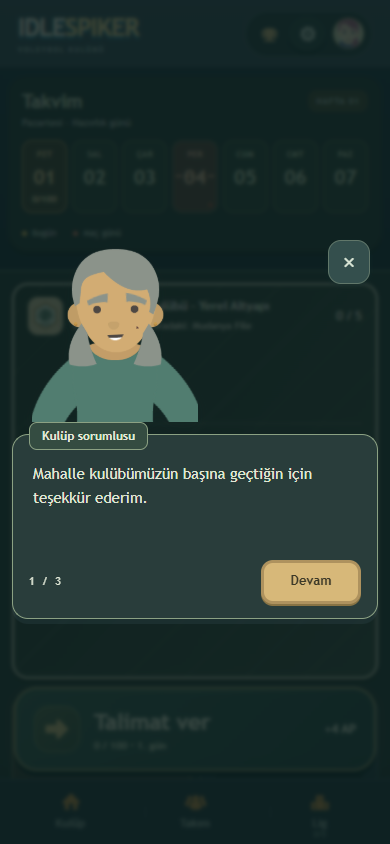
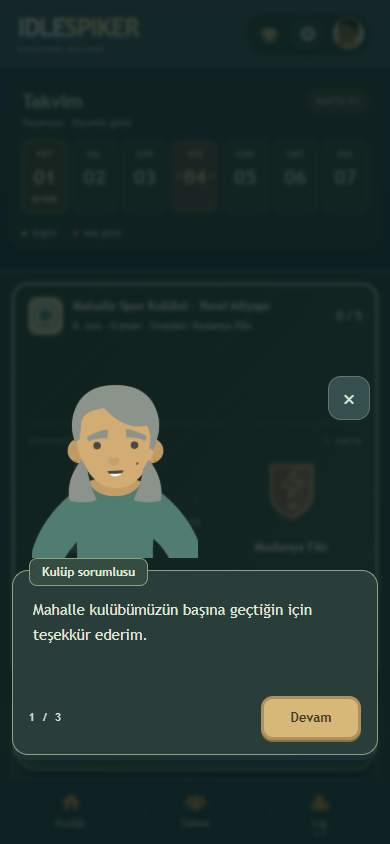
Anchor the opening conversation near the bottom of the viewport

diff --git a/index.html b/index.html
@@ -1,5 +1,5 @@
 <!doctype html>
-<html lang="tr"><head><script src="cheat-defaults.js?v=3f3b429b351f"></script><script src="flow-preview-environment.js?v=bd84173813bd"></script><meta charset="utf-8"><meta name="viewport" content="width=device-width,initial-scale=1,viewport-fit=cover"><meta name="theme-color" content="#72c8e5"><link rel="manifest" href="manifest.webmanifest"><link rel="apple-touch-icon" href="assets/app/apple-touch-icon.png"><meta name="apple-mobile-web-app-capable" content="yes"><meta name="apple-mobile-web-app-title" content="Idle Spiker"><meta name="apple-mobile-web-app-status-bar-style" content="default"><link rel="stylesheet" href="app-display.css?v=9be33492b021"><script src="app-display.js?v=77358ca90155" defer></script><title>Idle Spiker · Kulüp Merkezi</title><link rel="stylesheet" href="menu.css?v=c016fb44e844"><link rel="stylesheet" href="menu-game.css?v=7f40c8954076"><link rel="stylesheet" href="team.css?v=bcffe6b92c1a"><link rel="stylesheet" href="league-season.css?v=6a6a164bc92c"><style>#bootScreen{position:fixed;inset:0;max-width:480px;margin-inline:auto;z-index:10000;display:grid;place-content:center;justify-items:center;gap:8px;background:#fff3d7;color:#547c83;font-family:system-ui,sans-serif}#bootScreen strong{order:0;font-size:30px;letter-spacing:2px}#bootScreen strong span{color:#bb995b}#bootScreen p{order:1;font-size:12px;margin:0;color:#819383}#bootPepper{order:2;margin-top:12px;visibility:visible;width:260px;height:212px;border:0;background:transparent;pointer-events:none}#bootScreen img{width:48px;height:48px;animation:boot-bounce 1.2s ease-in-out infinite}@keyframes boot-bounce{50%{transform:translateY(-12px) rotate(18deg)}}@media(prefers-reduced-motion:reduce){#bootScreen img{animation:none}}</style><link rel="stylesheet" href="club-journey.css?v=a8162af5edc1"><link rel="stylesheet" href="bal-stage.css?v=03e79f9db703"><script src="season-clock.js?v=c90a74233800"></script><script src="bal-recovery.js?v=003056f070b8"></script><script src="weekly-season-migration.js?v=c91052e58aec"></script><script src="number-ui.js?v=a24b5930e991"></script><link rel="stylesheet" href="theme.css?v=13ff5dca84d4"><script src="theme.js?v=3046f3da7b5c"></script><link rel="stylesheet" href="achievements.css?v=2a8661c0d2be"><link rel="stylesheet" href="division-three.css?v=ef35af114b54"><link rel="stylesheet" href="social-screen.css?v=d9fcd5f947b1"><link rel="stylesheet" href="league-players.css?v=86e88a43a3b5"><link rel="stylesheet" href="language.css?v=b027c2a552b8"><script src="language-data.js?v=3d3af7f60753"></script><script src="language.js?v=6352cc5dd035"></script><link rel="stylesheet" href="player-skills.css?v=da608137e96c"><link rel="stylesheet" href="styles/ui/player-club-card.css?v=f5e5d3b711c5"><link rel="stylesheet" href="styles/ui/transfer-center.css?v=7bcc2f214fba"><script src="scripts/ui/dialog-navigation.js?v=0988251be4a1" defer></script><link rel="stylesheet" href="social-journey.css?v=381c58c2dc22"><link rel="stylesheet" href="next-match-card.css?v=d739901623ff"><link rel="stylesheet" href="social-follower-counter.css?v=038892551d63"><link rel="stylesheet" href="player-profile.css?v=9c3d709eac72"><link rel="stylesheet" href="ui-icons.css?v=b5ce6adfd485"><link rel="stylesheet" href="flow-effects.css?v=f82bf838ab8c"><link rel="stylesheet" href="board-doodles.css?v=85c5f17bdbe1"><link rel="stylesheet" href="board-presentation.css?v=3ae360fc348f"><link rel="stylesheet" href="progression-visuals.css?v=abd1b1d35d38"><link rel="stylesheet" href="flow-lanes.css?v=d7f1e62ee16b"><link rel="stylesheet" href="flow-media-theme.css?v=a959430cbe25"><link rel="stylesheet" href="ui-components.css?v=9f3bbe660198"><link rel="stylesheet" href="academy.css?v=1f7eb14eaf73"><link rel="stylesheet" href="academy-career.css?v=c24b7b8e9637"><link rel="stylesheet" href="legendary-unlock-preview.css?v=247b90f08604"><script src="point-music-rules.js?v=8ce930b25ffd"></script></head>
+<html lang="tr"><head><script src="cheat-defaults.js?v=3f3b429b351f"></script><script src="flow-preview-environment.js?v=bd84173813bd"></script><meta charset="utf-8"><meta name="viewport" content="width=device-width,initial-scale=1,viewport-fit=cover"><meta name="theme-color" content="#72c8e5"><link rel="manifest" href="manifest.webmanifest"><link rel="apple-touch-icon" href="assets/app/apple-touch-icon.png"><meta name="apple-mobile-web-app-capable" content="yes"><meta name="apple-mobile-web-app-title" content="Idle Spiker"><meta name="apple-mobile-web-app-status-bar-style" content="default"><link rel="stylesheet" href="app-display.css?v=9be33492b021"><script src="app-display.js?v=77358ca90155" defer></script><title>Idle Spiker · Kulüp Merkezi</title><link rel="stylesheet" href="menu.css?v=c016fb44e844"><link rel="stylesheet" href="menu-game.css?v=7f40c8954076"><link rel="stylesheet" href="team.css?v=bcffe6b92c1a"><link rel="stylesheet" href="league-season.css?v=6a6a164bc92c"><style>#bootScreen{position:fixed;inset:0;max-width:480px;margin-inline:auto;z-index:10000;display:grid;place-content:center;justify-items:center;gap:8px;background:#fff3d7;color:#547c83;font-family:system-ui,sans-serif}#bootScreen strong{order:0;font-size:30px;letter-spacing:2px}#bootScreen strong span{color:#bb995b}#bootScreen p{order:1;font-size:12px;margin:0;color:#819383}#bootPepper{order:2;margin-top:12px;visibility:visible;width:260px;height:212px;border:0;background:transparent;pointer-events:none}#bootScreen img{width:48px;height:48px;animation:boot-bounce 1.2s ease-in-out infinite}@keyframes boot-bounce{50%{transform:translateY(-12px) rotate(18deg)}}@media(prefers-reduced-motion:reduce){#bootScreen img{animation:none}}</style><link rel="stylesheet" href="club-journey.css?v=a8162af5edc1"><link rel="stylesheet" href="bal-stage.css?v=03e79f9db703"><script src="season-clock.js?v=c90a74233800"></script><script src="bal-recovery.js?v=003056f070b8"></script><script src="weekly-season-migration.js?v=c91052e58aec"></script><script src="number-ui.js?v=a24b5930e991"></script><link rel="stylesheet" href="theme.css?v=13ff5dca84d4"><script src="theme.js?v=3046f3da7b5c"></script><link rel="stylesheet" href="achievements.css?v=2a8661c0d2be"><link rel="stylesheet" href="division-three.css?v=ef35af114b54"><link rel="stylesheet" href="social-screen.css?v=d9fcd5f947b1"><link rel="stylesheet" href="league-players.css?v=86e88a43a3b5"><link rel="stylesheet" href="language.css?v=b027c2a552b8"><script src="language-data.js?v=3d3af7f60753"></script><script src="language.js?v=6352cc5dd035"></script><link rel="stylesheet" href="player-skills.css?v=da608137e96c"><link rel="stylesheet" href="styles/ui/player-club-card.css?v=f5e5d3b711c5"><link rel="stylesheet" href="styles/ui/transfer-center.css?v=7bcc2f214fba"><script src="scripts/ui/dialog-navigation.js?v=0988251be4a1" defer></script><link rel="stylesheet" href="social-journey.css?v=381c58c2dc22"><link rel="stylesheet" href="next-match-card.css?v=d739901623ff"><link rel="stylesheet" href="social-follower-counter.css?v=038892551d63"><link rel="stylesheet" href="player-profile.css?v=9c3d709eac72"><link rel="stylesheet" href="ui-icons.css?v=b5ce6adfd485"><link rel="stylesheet" href="flow-effects.css?v=f82bf838ab8c"><link rel="stylesheet" href="board-doodles.css?v=85c5f17bdbe1"><link rel="stylesheet" href="board-presentation.css?v=3ae360fc348f"><link rel="stylesheet" href="progression-visuals.css?v=abd1b1d35d38"><link rel="stylesheet" href="flow-lanes.css?v=d7f1e62ee16b"><link rel="stylesheet" href="flow-media-theme.css?v=a959430cbe25"><link rel="stylesheet" href="ui-components.css?v=3957bef60236"><link rel="stylesheet" href="academy.css?v=1f7eb14eaf73"><link rel="stylesheet" href="academy-career.css?v=c24b7b8e9637"><link rel="stylesheet" href="legendary-unlock-preview.css?v=247b90f08604"><script src="point-music-rules.js?v=8ce930b25ffd"></script></head>
 <body><div id="bootScreen" role="status" aria-live="polite"><strong>IDLE<span>SPIKER</span></strong><video id="bootPepper" src="assets/preview-media/boot-pepper.mp4?v=cc47f9ada726" poster="assets/preview-media/boot-pepper.png?v=e273dbb17a39" autoplay muted loop playsinline preload="auto" aria-hidden="true"></video><p>Kulüp hazırlanıyor…</p></div><script>window.bootStartedAt=performance.now();window.bootFallback=setTimeout(function(){document.getElementById("bootScreen")?.remove()},10000)</script><div class="shell"><aside class="rail"><a class="brand" href="index.html" aria-label="Idle Spiker ana menü"><svg viewBox="0 0 40 40" aria-hidden="true"><circle cx="20" cy="20" r="15"/><path d="M7 13q15 0 18 22M19 5q-5 13-12 19M34 17q-12-3-19 13"/></svg></a><span class="rail-word">IDLE SPIKER</span><a class="rail-icon active" href="index.html" aria-label="Kulüp merkezi" title="Kulüp merkezi">⌂</a><span class="rail-bottom">01 / CLUB</span></aside>
 <div class="content"><header class="topbar"><a href="index.html" class="wordmark">IDLE<span>SPIKER</span><small>VOLEYBOL KULÜBÜ</small></a><nav aria-label="Ana gezinme"><span class="nav-current">Kulüp merkezi</span></nav><button id="settingsButton" class="settings-button" type="button" aria-label="Ayarları aç">⚙ Ayarlar</button></header>
 <main><div class="dashboard"><section id="clubPanel" class="club-panel" aria-label="Kulüp departmanları"><div class="section-top"><div><span class="eyebrow">BİZİM KULÜP · AŞAMA 1</span></div></div>

diff --git a/ui-components.css b/ui-components.css
@@ -1,6 +1,6 @@
 /* Shared visual families. Mobile is the reference at every viewport width. */
 /* Visual-novel staging; the dialogue paper keeps the tutorial tokens. */
-html[data-theme] dialog#clubIntroduction{height:fit-content;min-height:0;max-height:calc(100dvh - 24px - env(safe-area-inset-top,0px) - env(safe-area-inset-bottom,0px));padding:0;border:0!important;background:transparent!important;box-shadow:none!important;overflow:visible;border-radius:0}
+html[data-theme] dialog#clubIntroduction{--club-intro-bottom:calc(var(--app-view-bottom,0px) + var(--app-nav-height,68px) + 16px + var(--app-safe-bottom,env(safe-area-inset-bottom,0px)));top:auto;bottom:var(--club-intro-bottom);margin:0 auto;height:fit-content;min-height:0;max-height:calc(100dvh - var(--club-intro-bottom) - 12px - var(--app-safe-top,env(safe-area-inset-top,0px)));padding:0;border:0!important;background:transparent!important;box-shadow:none!important;overflow:visible;border-radius:0}
 #clubIntroduction .selection-header{position:absolute;inset:8px 8px auto auto;z-index:2;padding:0;border:0;background:transparent}
 #clubIntroduction .selection-header>div{position:absolute;width:1px;height:1px;overflow:hidden;clip-path:inset(50%);white-space:nowrap}
 #clubIntroduction .selection-close{flex:0 0 38px;background:var(--ui-tutorial);color:var(--ui-tutorial-ink);border-color:var(--ui-tutorial-edge);margin:0}
@@ -15,7 +15,7 @@ html[data-theme=dark] #clubIntroductionLine{color:var(--ui-tutorial-ink)!importa
 #clubIntroduction footer span{font-variant-numeric:tabular-nums;letter-spacing:2px;color:var(--ui-tutorial-ink)}
 #clubIntroduction footer button{min-height:44px}
 @media(max-width:350px){.club-introduction-dialogue{padding:25px 16px 10px;min-height:116px}#clubIntroductionLine{font-size:14px}.club-introduction-actor{padding-left:12px}}
-@media(max-height:450px){.club-introduction-actor{height:80px}.club-introduction-dialogue{min-height:0;padding-top:23px}#clubIntroductionLine{font-size:14px}#clubIntroduction footer{padding-top:4px;padding-bottom:8px}}
+@media(max-height:450px){html[data-theme] dialog#clubIntroduction{--club-intro-bottom:calc(var(--app-view-bottom,0px) + 12px + var(--app-safe-bottom,env(safe-area-inset-bottom,0px)))}.club-introduction-actor{height:80px}.club-introduction-dialogue{min-height:0;padding-top:23px}#clubIntroductionLine{font-size:14px}#clubIntroduction footer{padding-top:4px;padding-bottom:8px}}
 :root{--ui-paper:#f9f5e6;--ui-ink:#466b70;--ui-muted:#778b80;--ui-edge:#dce1ce;--ui-outline:#fff9e7;--ui-soft:#e9eddd;--ui-focus:#779c87;--ui-tutorial:#fff7dd;--ui-tutorial-ink:#665437;--ui-tutorial-edge:#e4cd96;--ui-transition-paper:#fdf4db;--ui-transition-ink:#365f53;--ui-tutorial-tag:#efe5c9;--ui-tutorial-tag-ink:#66522f;--ui-backdrop:rgb(24 43 41 / 60%);--ui-spotlight:rgb(17 29 38 / 68%)}
 html[data-theme=dark]{--ui-paper:#293d3b;--ui-ink:#e1e8d7;--ui-muted:#b8c9b8;--ui-edge:#607361;--ui-outline:#607361;--ui-soft:#344c41;--ui-focus:#a1bea5;--ui-tutorial:#293d3b;--ui-tutorial-ink:#e1e8d7;--ui-tutorial-edge:#8ba183;--ui-transition-paper:#293d3b;--ui-transition-ink:#e1e8d7;--ui-tutorial-tag:#344c41;--ui-tutorial-tag-ink:#e1e8d7;--ui-backdrop:rgb(8 25 25 / 79%)}
 html dialog::backdrop{background:var(--ui-backdrop);backdrop-filter:blur(2px)}

diff --git a/card-design-preview.html b/card-design-preview.html
@@ -1,1 +1,1 @@
-<!doctype html><html lang="tr" class="elite-preview-page"><head><meta charset="utf-8"><meta name="viewport" content="width=device-width,initial-scale=1"><title>Oyuncu kartı tasarımları</title><link rel="stylesheet" href="team.css?v=bcffe6b92c1a"><link rel="stylesheet" href="styles/ui/player-club-card.css?v=f5e5d3b711c5"><link rel="stylesheet" href="styles/ui/transfer-center.css?v=7bcc2f214fba"><link rel="stylesheet" href="ui-components.css?v=9f3bbe660198"><link rel="stylesheet" href="elite-design-preview.css?v=8690d2b240a5"></head><body><main id="scoutDialog"><section aria-labelledby="cardSeriesTitle"><header class="card-lab-heading"><small>KARTIN GÖRSEL GELİŞİMİ</small><h2 id="cardSeriesTitle">Siyah · Gümüş · Altın · Mor</h2><p>Aynı oyuncu ve aynı OVR. Aşamalar, kartın görünüşünü karşılaştırmak içindir.</p></header><div id="cardProgression" class="card-lab-grid"></div></section><section aria-labelledby="potentialTitle"><header class="card-lab-heading"><small>AKADEMİ · POTANSİYELLİ GENÇLER</small><h2 id="potentialTitle">Geleceği henüz belli değil.</h2><p>Şimdiki OVR görünür. Mezuniyet gücü: ???</p></header><div id="eliteOptions" class="card-lab-grid"></div></section></main><script src="ui-icons-data.js?v=6804bbcfcd59"></script><script src="prospect-potential-rules.js?v=d08455300ece"></script><script src="player-card-presentation.js?v=ab24a8ee8f09"></script><script src="card-lab-template.js?v=f9ce24745e08"></script><script src="elite-design-preview.js?v=c67fcf020e1e"></script></body></html>
+<!doctype html><html lang="tr" class="elite-preview-page"><head><meta charset="utf-8"><meta name="viewport" content="width=device-width,initial-scale=1"><title>Oyuncu kartı tasarımları</title><link rel="stylesheet" href="team.css?v=bcffe6b92c1a"><link rel="stylesheet" href="styles/ui/player-club-card.css?v=f5e5d3b711c5"><link rel="stylesheet" href="styles/ui/transfer-center.css?v=7bcc2f214fba"><link rel="stylesheet" href="ui-components.css?v=3957bef60236"><link rel="stylesheet" href="elite-design-preview.css?v=8690d2b240a5"></head><body><main id="scoutDialog"><section aria-labelledby="cardSeriesTitle"><header class="card-lab-heading"><small>KARTIN GÖRSEL GELİŞİMİ</small><h2 id="cardSeriesTitle">Siyah · Gümüş · Altın · Mor</h2><p>Aynı oyuncu ve aynı OVR. Aşamalar, kartın görünüşünü karşılaştırmak içindir.</p></header><div id="cardProgression" class="card-lab-grid"></div></section><section aria-labelledby="potentialTitle"><header class="card-lab-heading"><small>AKADEMİ · POTANSİYELLİ GENÇLER</small><h2 id="potentialTitle">Geleceği henüz belli değil.</h2><p>Şimdiki OVR görünür. Mezuniyet gücü: ???</p></header><div id="eliteOptions" class="card-lab-grid"></div></section></main><script src="ui-icons-data.js?v=6804bbcfcd59"></script><script src="prospect-potential-rules.js?v=d08455300ece"></script><script src="player-card-presentation.js?v=ab24a8ee8f09"></script><script src="card-lab-template.js?v=f9ce24745e08"></script><script src="elite-design-preview.js?v=c67fcf020e1e"></script></body></html>

diff --git a/DESIGN-SYSTEM.md b/DESIGN-SYSTEM.md
@@ -110,7 +110,7 @@ Bunlar yeni bir palet önerisi değil, mevcut referanslardır:
 
 İlk profil oluşturulduktan/kapatıldıktan sonra tutorial tercihi sorulur. Yalnız yeni Mahalle başlangıcında “Evet, göster” seçilince `#clubIntroduction` açılır. Mevcut `GameUI.selection` altyapısının visual novel sahneleme varyantı kullanılır: büyük ve çerçevesiz karakter, altında isim etiketli diyalog kâğıdı, sağ üstte kapatma, altta adım sayısı ve Devam; son replikte Başlayalım. Üç kısa replik kulübe hoş geldin, dört maç geride olma ve ilk dörtte bitirmenin kariyer fırsatlarını anlatır. Bu diyalog lig takvimini/puanlarını değiştirmez.
 
-Kulüp sorumlusu mevcut `TeamAppearance` renderer’ıyla sabit seed’den üretilir; oyuncunun avatarı veya yeni bir çizim değildir. Portre konuşma kutusunun üzerinde solda, 168px genişlik ve viewporta göre 96–196px yüksekliğe kadar görünür. Portre kartı veya arkasında dolu dikdörtgen panel yoktur; yalnız replik/alt düğme yüzeyi tutorialın `--ui-tutorial`, yazı ve sınır tokenlarını kullanır. Konuşmacı etiketi bu kutunun üst kenarına oturur. Mobil ve masaüstünde pencere en çok 366px, `height:fit-content`; tam boy boş menüye dönüşmez. 450px altı yükseklikte portre 80px olur. Gerekirse yalnız içerik kayar, alt düğme ve kapatma görünür kalır. Koyu temanın genel `:is(dialog,#...)` kuralları şeffaf kabuğu tekrar doldurmamalıdır; bu ayrıca test edilir.
+Kulüp sorumlusu mevcut `TeamAppearance` renderer’ıyla sabit seed’den üretilir; oyuncunun avatarı veya yeni bir çizim değildir. Portre konuşma kutusunun üzerinde solda, 168px genişlik ve viewporta göre 96–196px yüksekliğe kadar görünür. Portre kartı veya arkasında dolu dikdörtgen panel yoktur; yalnız replik/alt düğme yüzeyi tutorialın `--ui-tutorial`, yazı ve sınır tokenlarını kullanır. Konuşmacı etiketi bu kutunun üst kenarına oturur. Mobil ve masaüstünde pencere en çok 366px, `height:fit-content`; tam boy boş menüye dönüşmez. 450px altı yükseklikte portre 80px olur. Konuşma dikey ortalanmaz: alt menünün 16px üzerinde alta yaslanır; güvenli alt alan ve uygulama viewport farkı hesaba katılır. 450px altı yükseklikte sığması için güvenli alt kenardan 12px boşluk bırakır. Gerekirse yalnız içerik kayar, alt düğme ve kapatma görünür kalır. Koyu temanın genel `:is(dialog,#...)` kuralları şeffaf kabuğu tekrar doldurmamalıdır; bu ayrıca test edilir.
 
 Konuşma açıkken normal tutorial gizlidir. Tamamlanınca, × veya Escape ile kapatılınca normal ilk talimat adımı devam eder. Göründüğü anda `club-introduction` onboarding kaydı tutulur; ilk replikte yenilemek bile yeniden konuşma çıkarmaz. “Doğrudan oyna”, mevcut ilerleyiş, sonraki ligler ve manuel özellik rehberleri bu konuşmayı açmaz. Yeni kayıt ve açık sıfırlama yeniden başlangıç sayılır. Test: `test-club-introduction.cjs` gerçek profil oluşturma/evet/hayır, üç replik, normal tutoriala dönüş, yarıda yenileme, Escape ve 10 tema/viewport kombinasyonunu denetler. Görseller `audits/club-introduction-{light,dark,small}.png`; gerçek görsel incelemede içeriğe göre boylanma kontrol edilmiştir.
 
